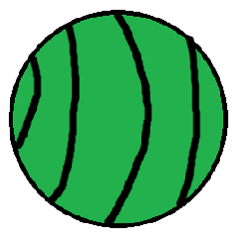
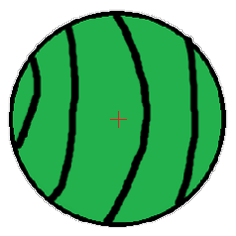
2022.12.2 Update #1 1. 游戏左下角显示歌名，右下角显示难度 2. 瓜的贴图中心添加用于判断中心位置的十字

diff --git a/player.js b/player.js
@@ -340,12 +340,17 @@ function 帧() {
             let 音符横向位移 = 世转屏(当前音符.相对位置, 0)[0] - 图片宽度 / 2;
             if (音符纵向位移 < 0) continue;
             let 音符ID = 'note_' + i + '_' + j;
-            if (音符纵向位移 > 屏幕高度 - 图片高度) {
+            if (
+                音符纵向位移 > 屏幕高度 - 图片高度 ||
+                节拍转毫秒(当前音符.判定时间) - 毫秒计时 + 节拍计时起始时间戳 <
+                    -160
+            ) {
                 delete 当前判定线.瓜列表[j];
                 let 音符HTML容器 = document.getElementById(音符ID);
                 let 音符HTML对象 = 音符HTML容器.children[0];
                 音符HTML容器.removeChild(音符HTML对象);
                 音符HTML容器.remove();
+                判定记录.push(-200);
                 continue;
             }
             let 音符HTML对象 = document.getElementById(音符ID);
@@ -363,12 +368,6 @@ function 帧() {
                 音符HTML容器.id = 音符ID;
                 音符HTML容器.appendChild(音符HTML对象);
                 document.getElementById('notes').appendChild(音符HTML容器);
-            }
-            if (
-                节拍转毫秒(当前音符.判定时间) - 毫秒计时 + 节拍计时起始时间戳 <
-                -160
-            ) {
-                判定记录.push(-200);
             }
         }
     }
@@ -439,6 +438,9 @@ window.onload = function () {
     /* 曲绘 */
     let 曲绘图片元素 = document.getElementById('background').children[0];
     曲绘图片元素.src = 'image/' + 解码(网址参数['illu']);
+    /* 显示歌名和等级 */
+    document.getElementById('nameText').innerHTML = 谱面名称;
+    document.getElementById('levelText').innerHTML = 解码(网址参数['level']);
     /* 提醒用户点击屏幕
                 原因：浏览器不允许在无操作的情况下自动播放音频
                 */

diff --git a/player.html b/player.html
@@ -1,8 +1,8 @@
 <!DOCTYPE html>
-<html>
+<html lang="zh-cn">
     <head>
         <meta charset="UTF-8" />
-        <title></title>
+        <title>瓜了个瓜 - 游戏界面</title>
         <link rel="stylesheet" href="./resource/style.css" />
     </head>
     <body>
@@ -14,11 +14,19 @@
             <div id="notes"></div>
             <div id="judgelines"></div>
             <div id="showCombo">
-			<span id="comboNum"></span><br />
-			<span id="comboText"></span>
-		</div>
+                <span id="comboNum"></span><br />
+                <span id="comboText"></span>
+            </div>
             <div id="showScore">
                 <span id="scoreNum"></span>
+            </div>
+        </div>
+        <div id="bottom">
+            <div id="showName">
+                <span id="nameText"></span>
+            </div>
+            <div id="showLevel">
+                <span id="levelText"></span>
             </div>
         </div>
         <iframe

diff --git a/resource/style.css b/resource/style.css
@@ -1,8 +1,9 @@
 body {
     background-color: #2c3e50;
+    color: #dfe4ea;
 }
 #ready {
-    color: #fff;
+    color: #dfe4ea;
     text-align: center;
 }
 #notes div {
@@ -20,14 +21,25 @@ body {
     width: 100%;
 }
 #showScore {
-    color: #dfe4ea;
     text-align: right;
     font-size: 1.5em;
 }
 #showCombo {
-    color: #dfe4ea;
     text-align: center;
 }
 #comboNum {
     font-size: 1.5em;
+}
+#showName {
+    bottom: 0.5em;
+    position: absolute;
+}
+#showLevel {
+    bottom: 0.5em;
+    right: 8em;
+    position: absolute;
+}
+#buttom {
+    position: absolute;
+    bottom: 0;
 }
